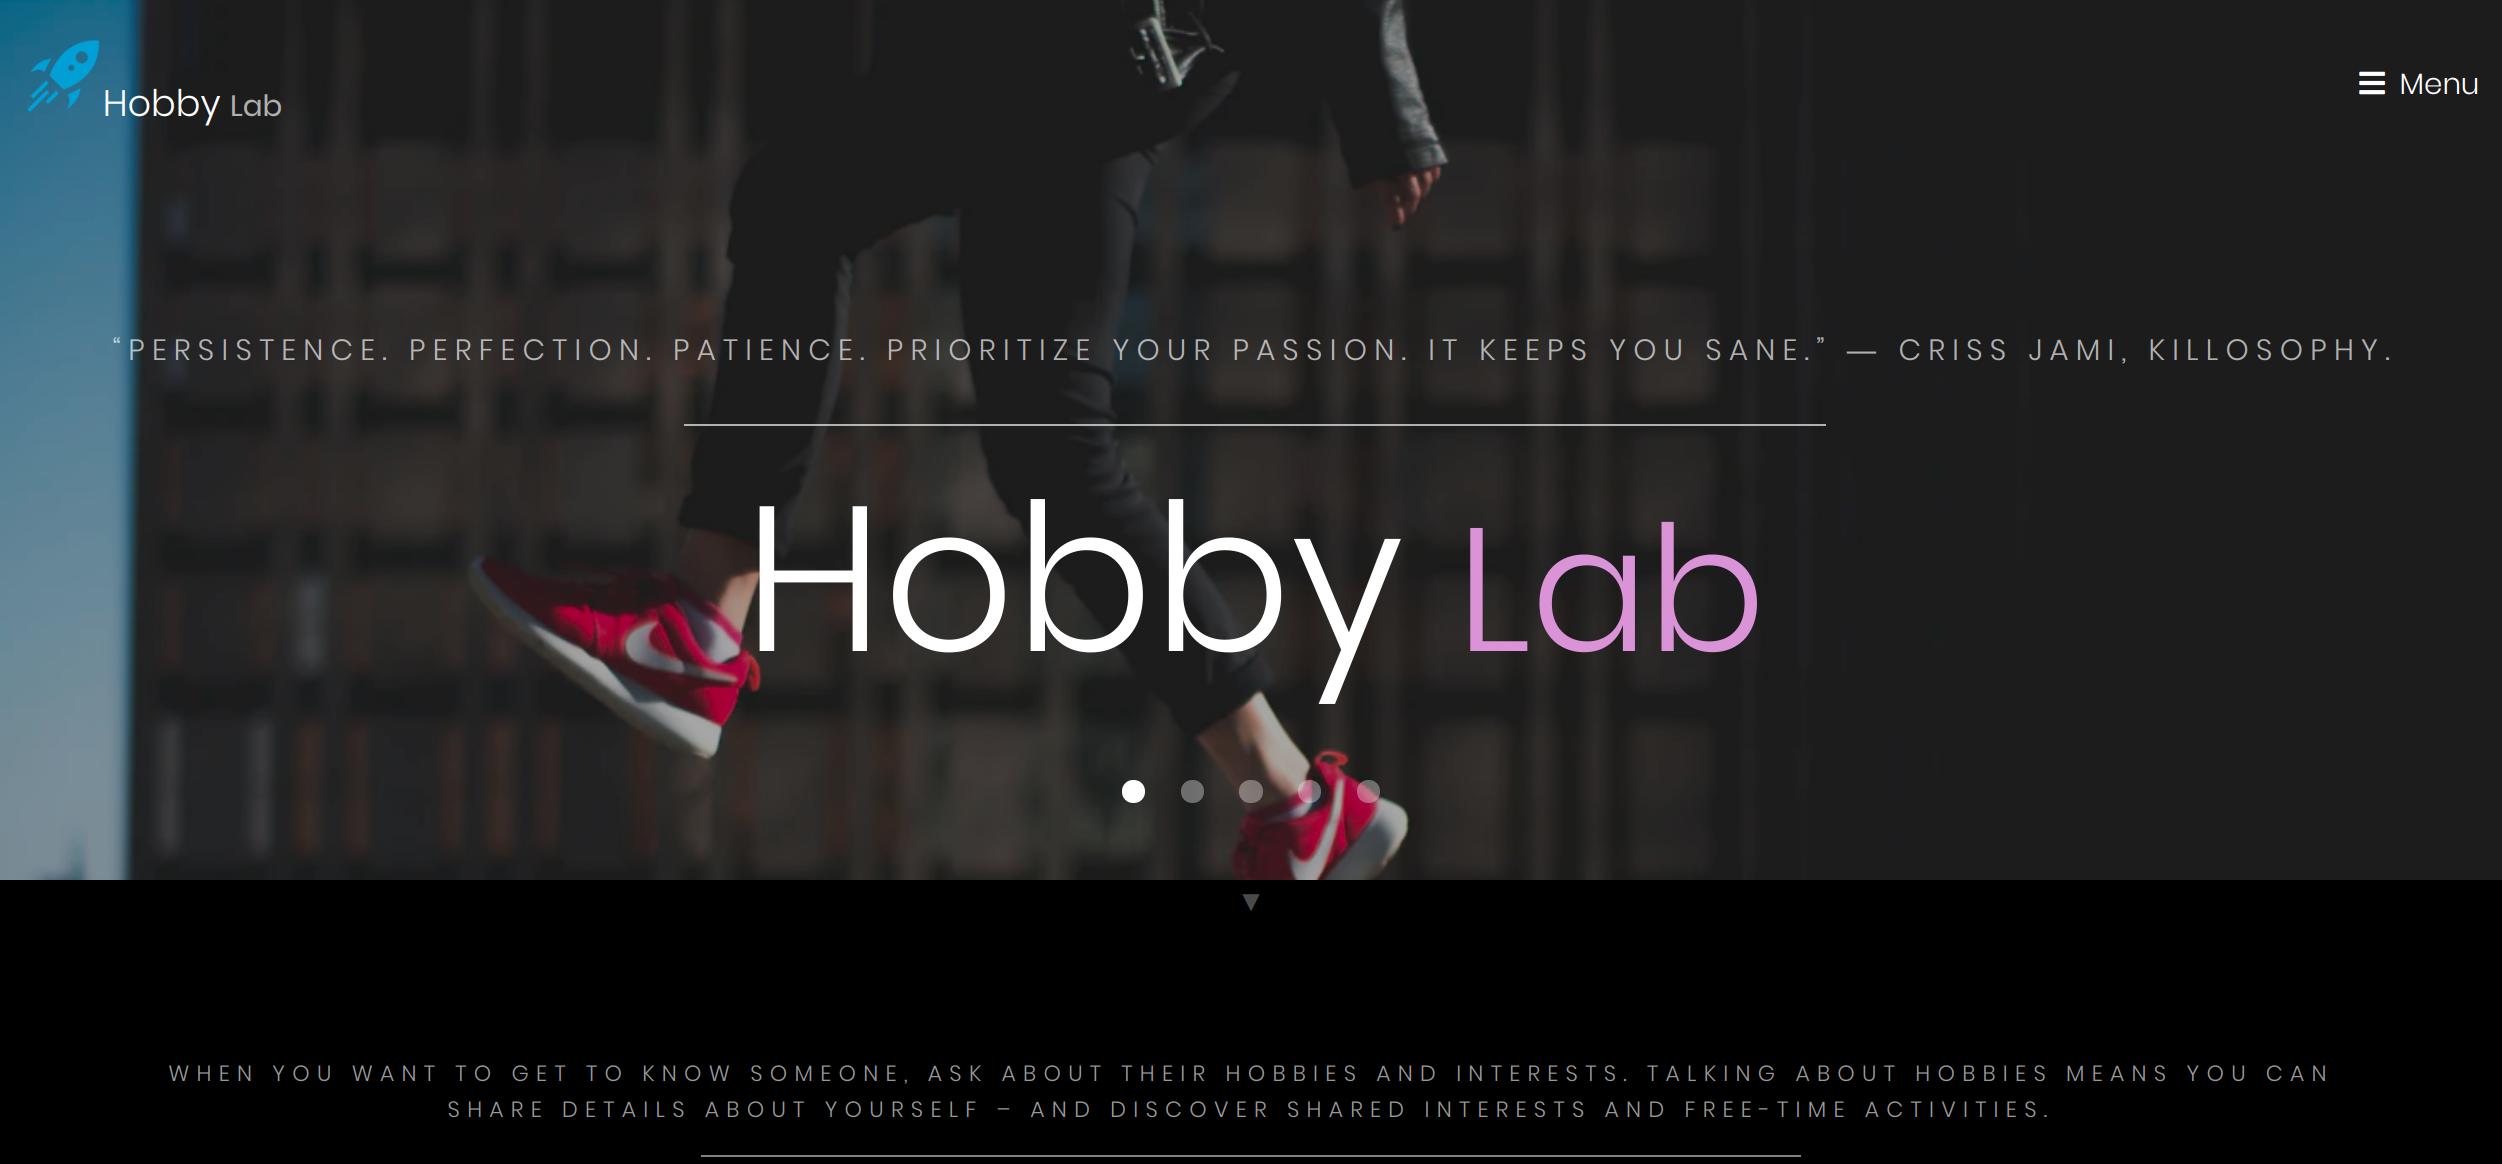
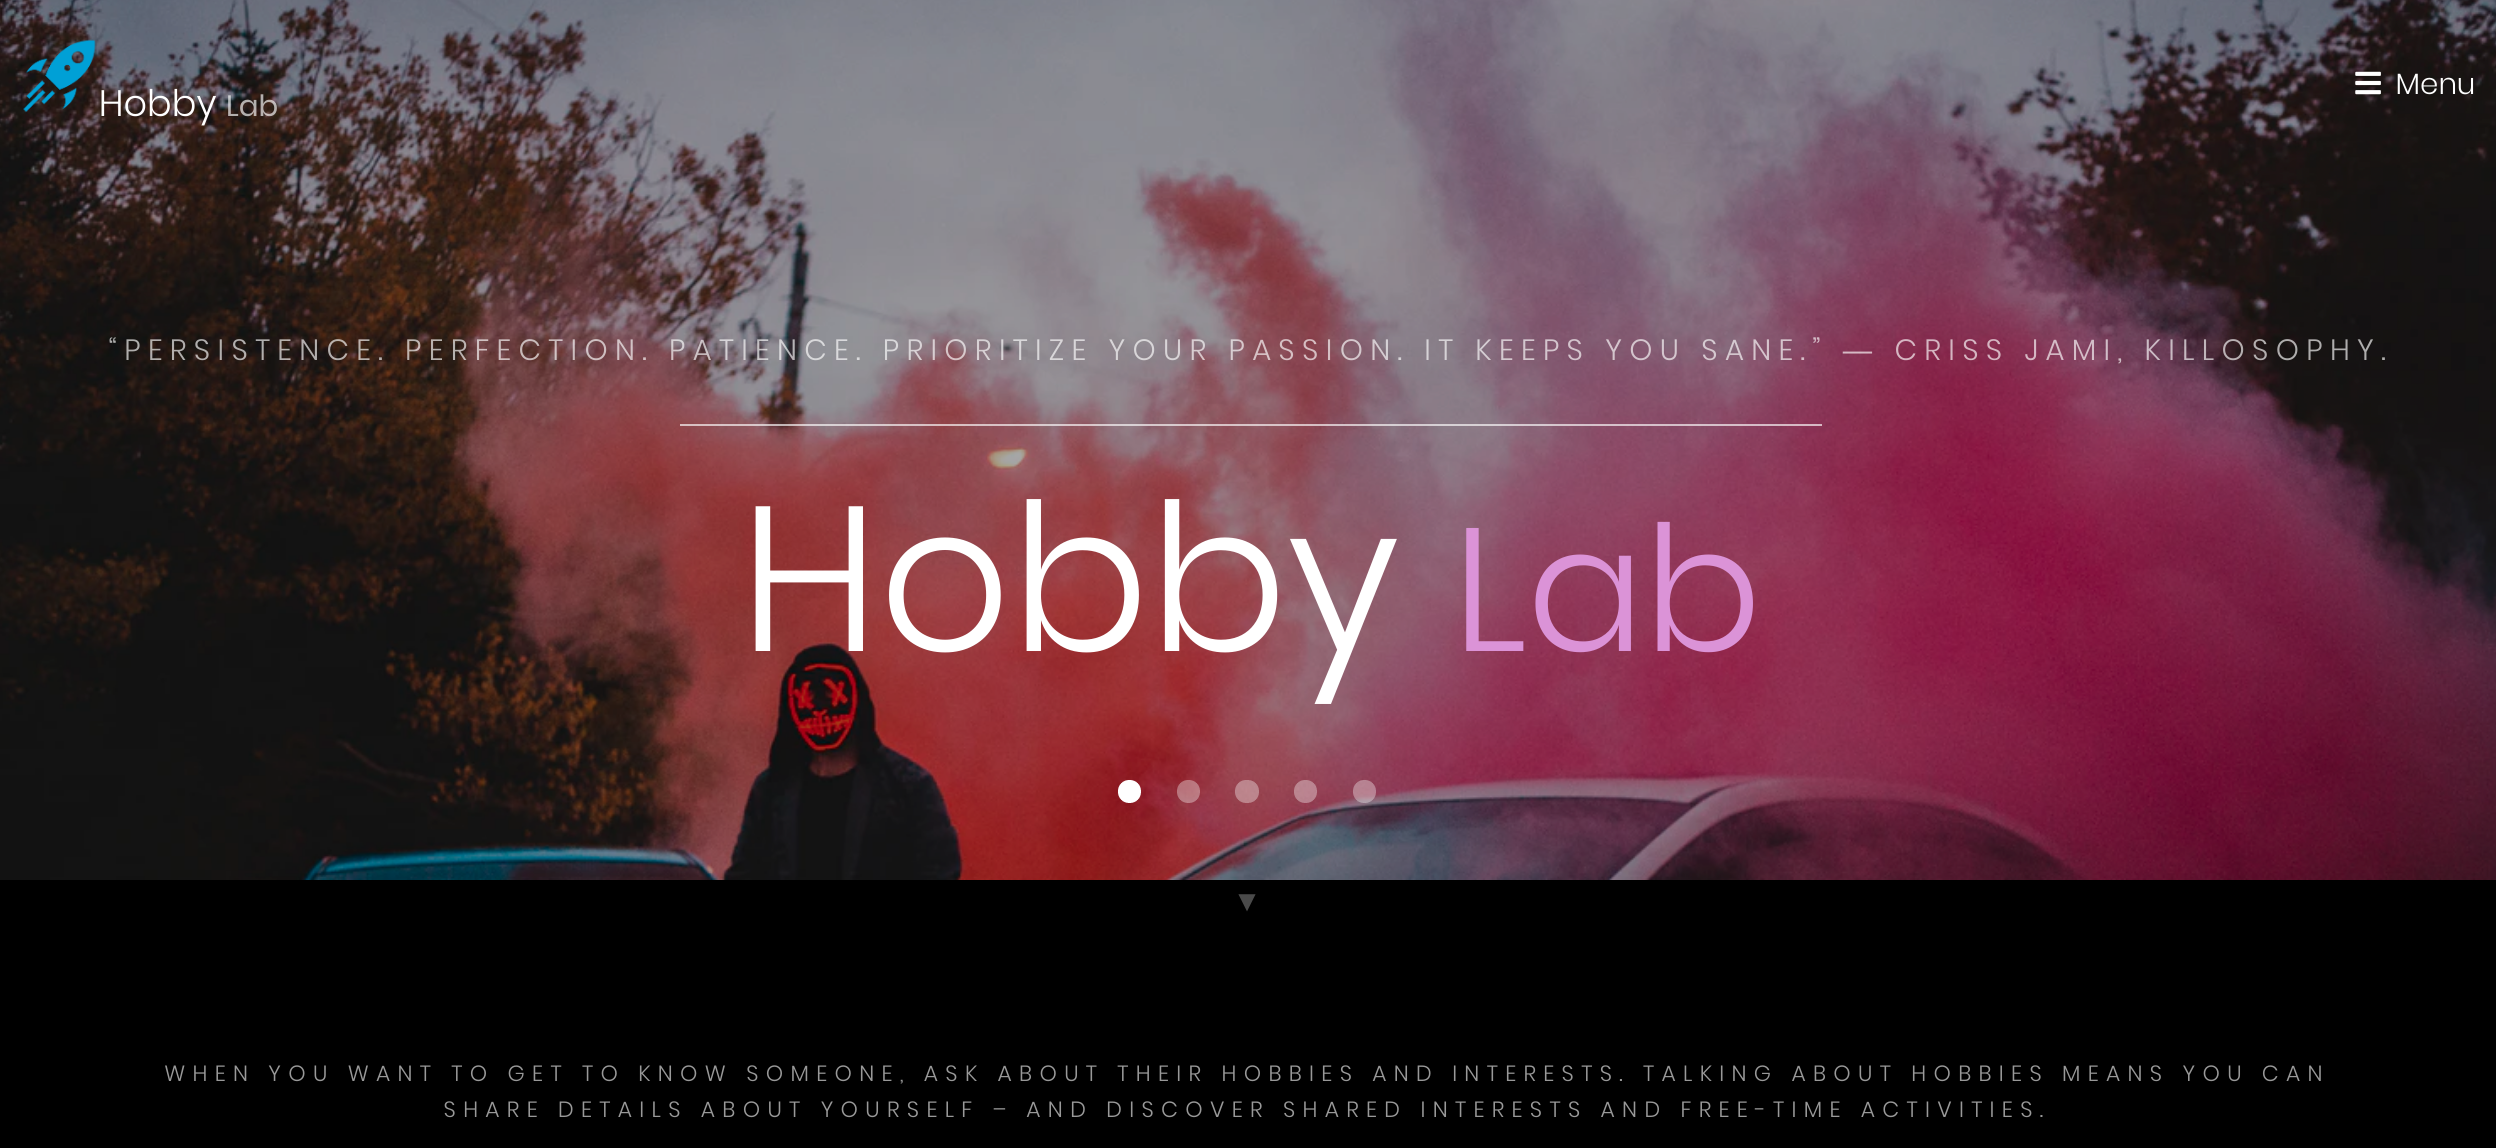
update home page

diff --git a/hooby_app/templates/index.html b/hooby_app/templates/index.html
@@ -12,8 +12,8 @@
   
 		<!-- Banner -->
     <section class="banner full">
-      <article>					
-        <img src="https://images.unsplash.com/photo-1428790067070-0ebf4418d9d8?ixlib=rb-1.2.1&ixid=eyJhcHBfaWQiOjEyMDd9&auto=format&fit=crop&w=1500&q=80" alt="" />
+      <article>				                     
+        <img src="https://images.unsplash.com/photo-1572471372732-08638b9f7202?ixlib=rb-1.2.1&ixid=eyJhcHBfaWQiOjEyMDd9&auto=format&fit=crop&w=1500&q=80" alt="" />
         <div class="inner">
           <header>
             <p>“Persistence. Perfection. Patience. Prioritize your passion. It keeps you sane.” ― Criss Jami, Killosophy.</p>            
